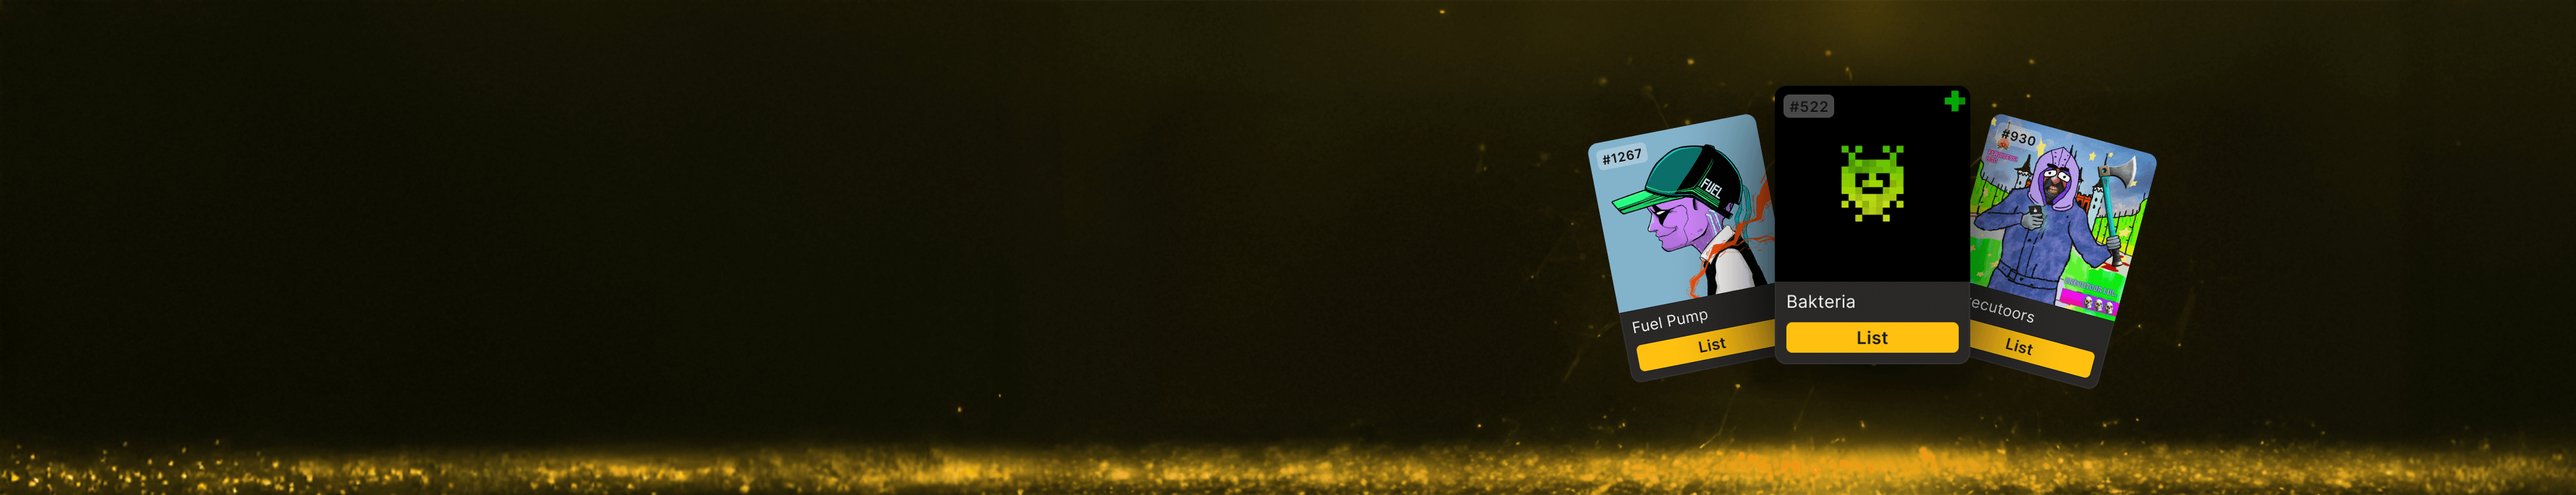
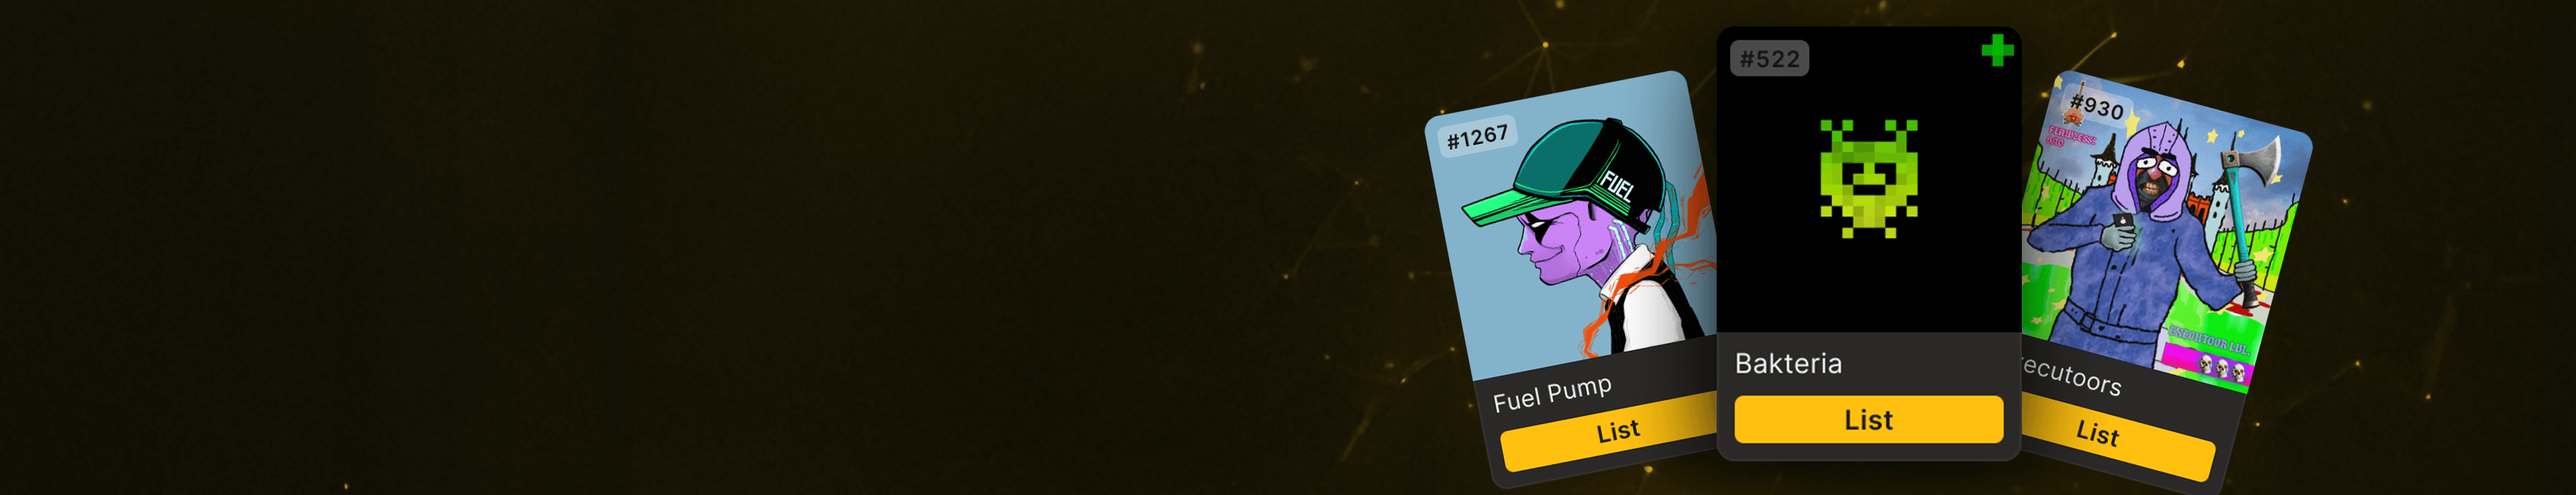
feat(marketplace): add responsive images to MarketplaceBanner and adjust OrderList column layout for better display

Changed region(s): [[0.0, 0.0, 1.0, 1.0]]

diff --git a/apps/ui/src/modules/marketplace/components/banner.tsx b/apps/ui/src/modules/marketplace/components/banner.tsx
@@ -1,3 +1,4 @@
+import BannerMobile from '@/assets/marketplace-banner-mobile.png';
 import Banner from '@/assets/marketplace-banner.png';
 import { useResolverName } from '@/hooks';
 import { Box, Button, Heading, Image, Stack, Text } from '@chakra-ui/react';
@@ -26,16 +27,42 @@ export const MarketplaceBanner = () => {
 
   return (
     <Box height="230px" position="relative">
-      <Box position="absolute" top="50%" left={10} transform="translateY(-50%)">
-        <Stack spacing={4}>
+      <Box
+        position="absolute"
+        top="50%"
+        left={{
+          md: 10,
+          base: 4,
+        }}
+        transform="translateY(-50%)"
+      >
+        <Stack
+          spacing={{
+            base: 10,
+            sm: 4,
+          }}
+        >
           <Box>
-            <Heading>
+            <Heading
+              fontSize={{
+                md: '3xl',
+                base: '2xl',
+              }}
+            >
               List. Sell.{' '}
               <Text as="span" color="#F5F5F54D">
                 Repeat.
               </Text>
             </Heading>
-            <Text color="grey.100">Trading NFTs has never been this easy.</Text>
+            <Text
+              maxW={{
+                base: '190px',
+                md: 'none',
+              }}
+              color="grey.100"
+            >
+              Trading NFTs has never been this easy.
+            </Text>
           </Box>
 
           <Button
@@ -53,7 +80,25 @@ export const MarketplaceBanner = () => {
           </Button>
         </Stack>
       </Box>
-      <Image src={Banner} boxSize="full" objectFit="cover" borderRadius="8px" />
+      <Image
+        src={Banner}
+        boxSize="full"
+        objectFit="cover"
+        borderRadius="8px"
+        objectPosition={{
+          sm: '80% 50%',
+          base: '50% 50%',
+          md: '50% 50%',
+        }}
+        display={{ base: 'none', sm: 'block' }}
+      />
+      <Image
+        src={BannerMobile}
+        display={{ base: 'block', sm: 'none' }}
+        boxSize="full"
+        objectFit="cover"
+        borderRadius="8px"
+      />
     </Box>
   );
 };

diff --git a/apps/ui/src/modules/marketplace/components/orderList.tsx b/apps/ui/src/modules/marketplace/components/orderList.tsx
@@ -42,6 +42,7 @@ export const OrderList = ({
       columns={{
         md: 5,
         sm: 3,
+        xs: 2,
         base: 1,
       }}
     >
